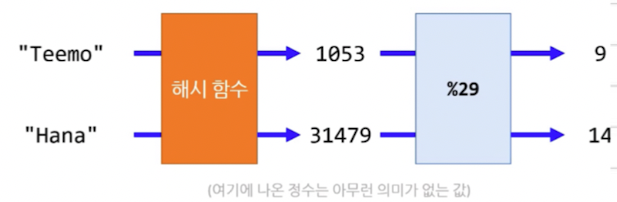
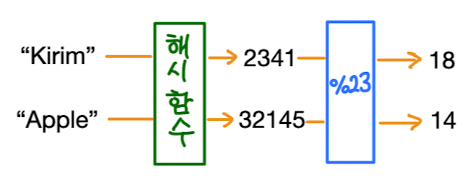
ss

diff --git a/_posts/c/etc/2021-04-23-hash3.md b/_posts/c/etc/2021-04-23-hash3.md
@@ -13,9 +13,8 @@ comments: true
 <h2 style="color:#0e435c;">(1) 배열을 사용한 간단한 해시 테이블 예시</h2>
 
 ```c
-#include <limits.h>
-
-#define BUCKET_SIZE (23)
+#define BUCKET_SIZE (29)
+#define INIT (-1)
 #define FALSE (-1)
 #define TRUE (1)
 
@@ -35,7 +34,7 @@ int hash(int value)
 void init_hashtable(int *hashtable)
 {
     for(int i = 0; i < BUCKET_SIZE; i++)
-        hashtable[i] = INT_MIN;
+        hashtable[i] = INIT;
 }
 
 /* 해시테이블에서 값을 찾는 함수 */
@@ -50,7 +49,7 @@ int find_value(int value, int *hashtable)
     do {
         if (hashtable[i] == value)
             return (i);
-        else if (hashtable[i] == INT_MIN)
+        else if (hashtable[i] == INIT)
             return (FALSE);
         i = (i + 1) % BUCKET_SIZE;
     } while (i != start_index);
@@ -68,7 +67,7 @@ int add_value(int value, int *hashtable)
     i = start_index;
 
     do {
-        if (hashtable[i] == value || hashtable[i] == INT_MIN)
+        if (hashtable[i] == value || hashtable[i] == INIT)
         {
             hashtable[i] = value;
             return (TRUE);
@@ -81,8 +80,8 @@ int add_value(int value, int *hashtable)
 ```
 
 * **입력값**또한 **데이터(문자열 등..)**을 해쉬함수를 통해 생성된 값입니다.
-* 그렇기 때문에 위의 예에서 **입력값** 그 자체를 **해시 값**이라고 볼 수도 있습니다.
-* 그 해시 값을 정해진 배열 안에 꾸겨 넣으려고 `%`연산을 한 것일 뿐입니다.
+* 그렇기 때문에 위의 예에서 **입력값**을 **해시 값**이라고 볼 수도 있습니다.
+* **해시 값**을 정해진 **리소스**안에 담기위해 `%`연산을 사용하여 크기를 줄여준 것 입니다.
 <img src="https://kirkim.github.io/assets/img/c/hash4.png" alt="hash_example" width="90%" style="margin-top:3%">
 <h3 align="middle" style="color:#0e435c;">&lt; 사용 예(main함수) &gt;</h3>
 
@@ -128,7 +127,7 @@ int main(void)
     17: 546<br />
     18: 777<br />
 </kkr>
-<img src="https://kirkim.github.io/assets/img/c/hash5.png" alt="hash_example" width="90%" style="margin-top:3%">
+
 * 위의 예시와 아래 그림을 비교해봤을 때 색인값이 <rd>중복</rd>될 경우 <rd>다음 빈칸</rd>으로 순차적으로 배정됨을 확인할 수 있습니다.
 
 * * *

diff --git a/_posts/42seoul/cub3d/2021-04-16-cub3d1.md b/_posts/42seoul/cub3d/2021-04-16-cub3d1.md
@@ -1,6 +1,6 @@
 ---
 layout: post
-title:  "[cub3d](1)"
+title:  "[cub3d](1)cub3d과제 개요"
 subtitle:   ""
 date: 2021-04-16 02:45:51 +0900
 categories: 42seoul
